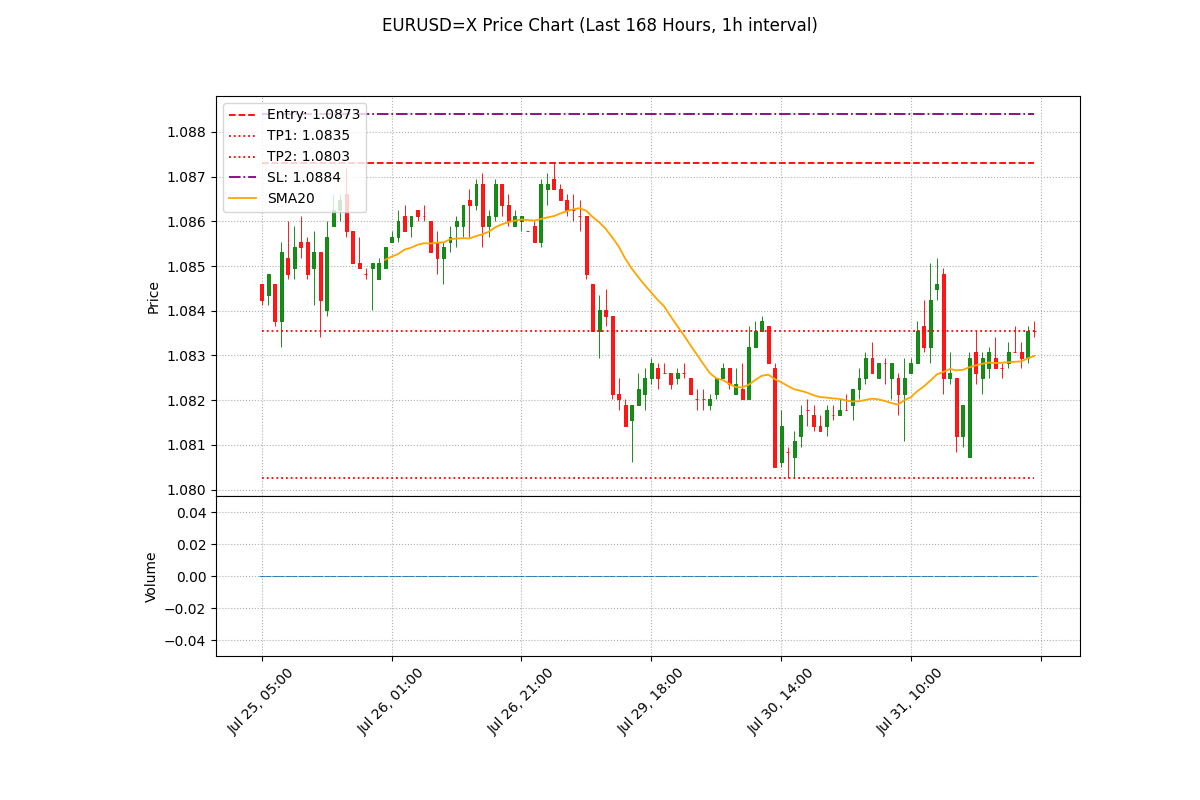
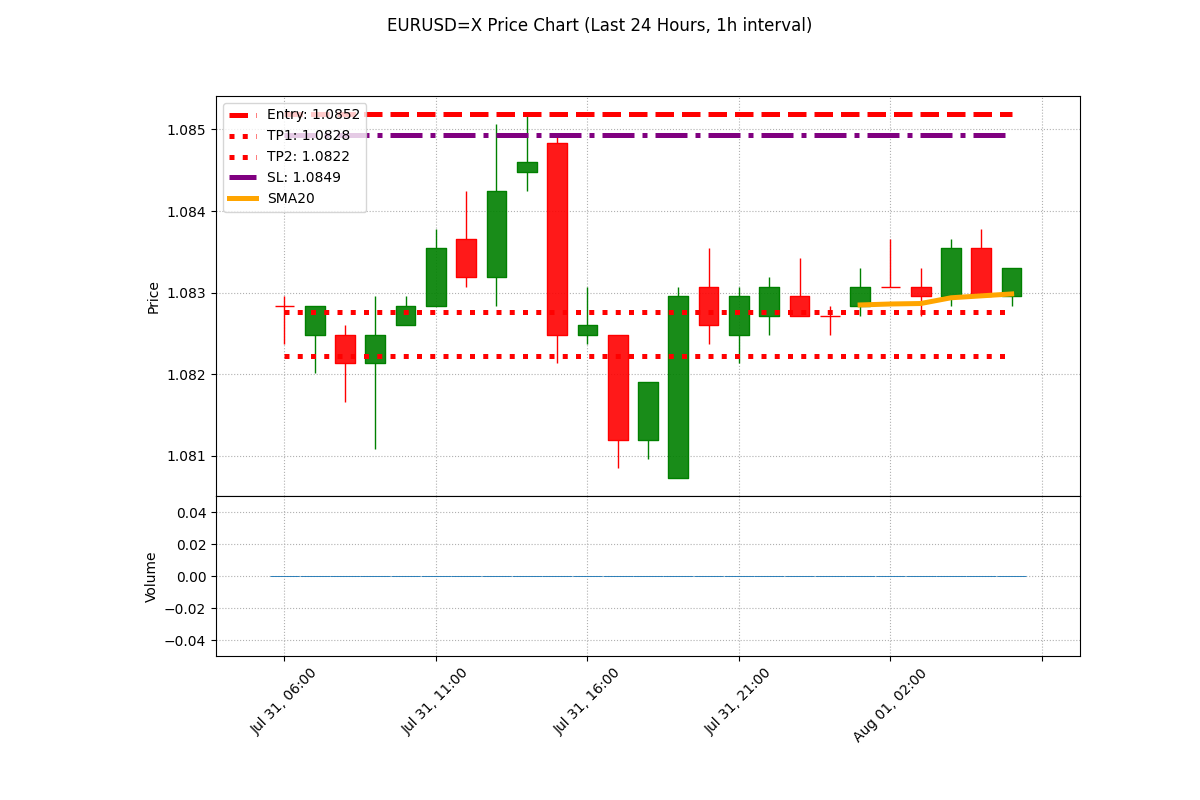
medio mejore
medio mejore

diff --git a/lib/forex_2.py b/lib/forex_2.py
@@ -32,9 +32,9 @@ args = parser.parse_args()
 SYMBOL = args.symbol.upper()
 INTERVAL = '1h'
 
-def get_historical_data(symbol, interval='1h', days=180):
+def get_historical_data(symbol, interval='1h', hours=168):  # 168 horas = 7 días
     end_date = pd.Timestamp.now(tz=pytz.UTC)
-    start_date = end_date - pd.Timedelta(days=days)
+    start_date = end_date - pd.Timedelta(hours=hours)
     try:
         data = yf.download(symbol, start=start_date, end=end_date, interval=interval)
         if data.empty:
@@ -195,24 +195,28 @@ def determine_trade_direction(current_price, predicted_price):
     return "LONG 📈" if predicted_price > current_price else "SHORT 📉"
 
 def find_entry_and_targets(historical_prices, current_price, predicted_price, trade_direction):
-    if historical_prices.empty:
-        print("Warning: Empty historical data. Using current and predicted prices.")
+    if historical_prices.empty or len(historical_prices) < 24:
+        print("Warning: Insufficient historical data. Using current and predicted prices.")
         highest_price = max(current_price, predicted_price)
         lowest_price = min(current_price, predicted_price)
+        entry = lowest_price if "LONG" in trade_direction else highest_price
     else:
         highest_price = historical_prices['High'].max()
         lowest_price = historical_prices['Low'].min()
-    
+        entry = lowest_price if "LONG" in trade_direction else highest_price
+
     if "SHORT" in trade_direction:
-        entry = highest_price
-        tp1 = min(predicted_price, current_price)
-        tp2 = lowest_price
-        stop_loss = entry * 1.001  # Adjusted for forex
-    else:  # LONG
-        entry = lowest_price
-        tp1 = max(predicted_price, current_price)
-        tp2 = highest_price
-        stop_loss = entry * 0.999  # Adjusted for forex
+        tp1 = min(predicted_price, current_price * 0.9995)  # 0.05% below current price
+        tp2 = min(predicted_price, current_price * 0.9990)  # 0.1% below current price
+        stop_loss = current_price * 1.0015  # 0.15% above current price
+    elif "LONG" in trade_direction:
+        tp1 = max(predicted_price, current_price * 1.0005)  # 0.05% above current price
+        tp2 = max(predicted_price, current_price * 1.0010)  # 0.1% above current price
+        stop_loss = entry * 0.9985  # 0.15% below entry price
+    else:  # NEUTRAL
+        tp1 = predicted_price
+        tp2 = predicted_price
+        stop_loss = current_price * 0.9985 if predicted_price >= current_price else current_price * 1.0015
     
     return entry, tp1, tp2, stop_loss
 
@@ -309,12 +313,12 @@ def send_to_telegram(message, image_path):
 def predictPrice(interval='1h'):
     global forex_prices, DXY, y_val, y_test, pred_test_xgb, mae, WINDOW, PREDICTION_SCOPE
 
-    PERCENTAGE = 0.8  # Cambiado de 0.995 a 0.8 para tener suficientes datos de validación
-    WINDOW = 24 * 3  # 3 days of hourly data
-    PREDICTION_SCOPE = 1  # Predicting 1 hour ahead
+    PERCENTAGE = 0.8
+    WINDOW = 12  # 12 horas de datos
+    PREDICTION_SCOPE = 1  # Predecir 1 hora adelante
 
-    forex_prices = get_historical_data(SYMBOL, interval=INTERVAL, days=90)
-    DXY = get_historical_data("DX-Y.NYB", interval=interval, days=90)
+    forex_prices = get_historical_data(SYMBOL, interval=INTERVAL, hours=24)  # Últimas 24 horas
+    DXY = get_historical_data("DX-Y.NYB", interval=interval, hours=24)
     
     if forex_prices is None or DXY is None:
         raise ValueError("Unable to fetch required data")
@@ -335,7 +339,7 @@ def predictPrice(interval='1h'):
     X_train, y_train = windowing(train_data, WINDOW, PREDICTION_SCOPE)
 
     # Dividir los datos de entrenamiento en entrenamiento y validación
-    val_size = int(len(X_train) * 0.2)
+    val_size = max(1, int(len(X_train) * 0.2))
     X_val, y_val = X_train[-val_size:], y_train[-val_size:]
     X_train, y_train = X_train[:-val_size], y_train[:-val_size]
 
@@ -348,18 +352,24 @@ def predictPrice(interval='1h'):
     X_test, y_test = windowing(test_data, WINDOW, PREDICTION_SCOPE)
     print(f"Shape of X_test: {X_test.shape}")
 
-    pred_test_xgb = xgb_model.predict(X_test.reshape(X_test.shape[0], -1))
-    print(f"Shape of pred_test_xgb: {pred_test_xgb.shape}")
-    print(f"Last predicted value: {pred_test_xgb[-1]}")
+    if X_test.shape[0] > 0:
+        pred_test_xgb = xgb_model.predict(X_test.reshape(X_test.shape[0], -1))
+        print(f"Shape of pred_test_xgb: {pred_test_xgb.shape}")
+        print(f"Last predicted value: {pred_test_xgb[-1]}")
 
-    predicted_price, prediction_date, prediction_hours = plotting(y_val, y_test, pred_test_xgb[-1], mae, WINDOW, PREDICTION_SCOPE)
-    
+        predicted_price, prediction_date, prediction_hours = plotting(y_val, y_test, pred_test_xgb[-1], mae, WINDOW, PREDICTION_SCOPE)
+    else:
+        print("Warning: Not enough test data for prediction")
+        predicted_price = forex_prices['Close'].iloc[-1]
+        prediction_date = forex_prices.index[-1] + pd.Timedelta(hours=1)
+        prediction_hours = 1
+
     print(f"Predicted price: {predicted_price}")
     print(f"Prediction date: {prediction_date}")
     print(f"Prediction hours: {prediction_hours}")
 
     return predicted_price, prediction_date, prediction_hours, mae
-
+   
 def main():
     symbol = args.symbol.upper()
     interval = '1h'
@@ -380,20 +390,22 @@ def main():
         trade_direction = determine_trade_direction(current_price, predicted_price)
         print(f"Trade direction: {trade_direction}")
         
-        historical_prices = get_historical_data(symbol, interval=interval)
+        historical_prices = get_historical_data(symbol, interval=interval, hours=24)
         print("Historical data obtained:")
         print(historical_prices)
 
         highest_volume_prices = get_highest_volume_prices(historical_prices, n=4)
+        print("Highest volume prices:")
+        print(highest_volume_prices)
 
-        if historical_prices.empty:
-            print("Warning: Could not obtain historical data. Using alternative values.")
-            highest_price_7d = max(current_price, predicted_price)
-            lowest_price_7d = min(current_price, predicted_price)
+        if historical_prices.empty or len(historical_prices) < 24:
+            print("Warning: Insufficient historical data. Using alternative values.")
+            highest_price_24h = max(current_price, predicted_price)
+            lowest_price_24h = min(current_price, predicted_price)
             entry, tp1, tp2, stop_loss = current_price, predicted_price, predicted_price, current_price * (1.001 if "SHORT" in trade_direction else 0.999)
         else:
-            highest_price_7d = historical_prices['High'].max()
-            lowest_price_7d = historical_prices['Low'].min()
+            highest_price_24h = historical_prices['High'].max()
+            lowest_price_24h = historical_prices['Low'].min()
             entry, tp1, tp2, stop_loss = find_entry_and_targets(historical_prices, current_price, predicted_price, trade_direction)
 
         print(f"Calculated levels: Entry=${entry:.4f}, TP1=${tp1:.4f}, TP2=${tp2:.4f}, SL=${stop_loss:.4f}")
@@ -414,7 +426,7 @@ def main():
                         specific_prices[price_key] = float(hour_prices['Low'].min())
                 else:
                     specific_prices[price_key] = None
-        
+
         prediction_data = {
             "current_price": float(current_price),
             "predicted_price": float(predicted_price),
@@ -426,8 +438,8 @@ def main():
             "stop_loss": float(stop_loss),
             "target_price_1": float(tp1),
             "target_price_2": float(tp2),
-            "highest_price_7d": float(highest_price_7d),
-            "lowest_price_7d": float(lowest_price_7d),
+            "highest_price_24h": float(highest_price_24h),
+            "lowest_price_24h": float(lowest_price_24h),
             "token": symbol,
             "highest_volume_prices": highest_volume_prices,
             **specific_prices
@@ -443,14 +455,10 @@ def main():
         
         print(f"Values for chart: entry={entry}, tp1={tp1}, tp2={tp2}, stop_loss={stop_loss}, trade_direction={trade_direction}")
         
-        print("Verifying historical data:")
-        print(historical_prices)
-        print(f"Shape of historical data: {historical_prices.shape}")
-        
         chart_path = None
         if not historical_prices.empty and len(historical_prices) >= 2:
             print("Attempting to create chart...")
-            chart_path = create_chart(symbol, hours=168, entry=entry, tp1=tp1, tp2=tp2, stop_loss=stop_loss, trade_direction=trade_direction, interval=interval)
+            chart_path = create_chart(symbol, hours=24, entry=entry, tp1=tp1, tp2=tp2, stop_loss=stop_loss, trade_direction=trade_direction, interval=interval)
             if chart_path:
                 print(f"Chart created successfully at: {chart_path}")
             else:
@@ -478,11 +486,11 @@ Trading Levels:
 - Target 1 (TP1): ${prediction_data['target_price_1']:.4f}
 - Target 2 (TP2): ${prediction_data['target_price_2']:.4f}
 
-Price Range (last 7 days):
-- Highest Price: ${prediction_data['highest_price_7d']:.4f}
-- Lowest Price: ${prediction_data['lowest_price_7d']:.4f}
+Price Range (last 24 hours):
+- Highest Price: ${prediction_data['highest_price_24h']:.4f}
+- Lowest Price: ${prediction_data['lowest_price_24h']:.4f}
 
-Prices with Highest Volume (last 7 days):
+Prices with Highest Volume (last 24 hours):
 {chr(10).join([f"- {price['date']}: ${price['price']:.4f} (Volume: {price['volume']:,.0f})" for price in prediction_data['highest_volume_prices']])}
 
 Generated on {current_date} at {current_time}
@@ -496,22 +504,7 @@ Generated on {current_date} at {current_time}
             print(f"Could not find chart file at {chart_path if chart_path else 'any location'}. Sending message only.")
             send_to_telegram(message, None)
 
-        for hours in range(0, 25, 6):
-            specific_date = now - pd.Timedelta(hours=hours)
-            if not historical_prices.empty:
-                print(f"\nData from {hours} hours ago ({specific_date}):")
-                print(historical_prices.loc[historical_prices.index.floor('H') == specific_date.floor('H')])
-            else:
-                print(f"\nNo data available for {hours} hours ago ({specific_date})")
-
-        print(f"\nDebug Information:")
-        print(f"Current Price: {current_price}")
-        print(f"Predicted Price: {predicted_price}")
-        print(f"Trade Direction: {trade_direction}")
-        print(f"Entry Price: {entry}")
-        print(f"Stop Loss: {stop_loss}")
-        print(f"Target Price 1: {tp1}")
-        print(f"Target Price 2: {tp2}")
+        print("Process completed successfully.")
 
     except Exception as e:
         print(f"An error occurred: {e}")
@@ -519,4 +512,4 @@ Generated on {current_date} at {current_time}
         print(traceback.format_exc())
 
 if __name__ == "__main__":
-    main()
+    main()  
